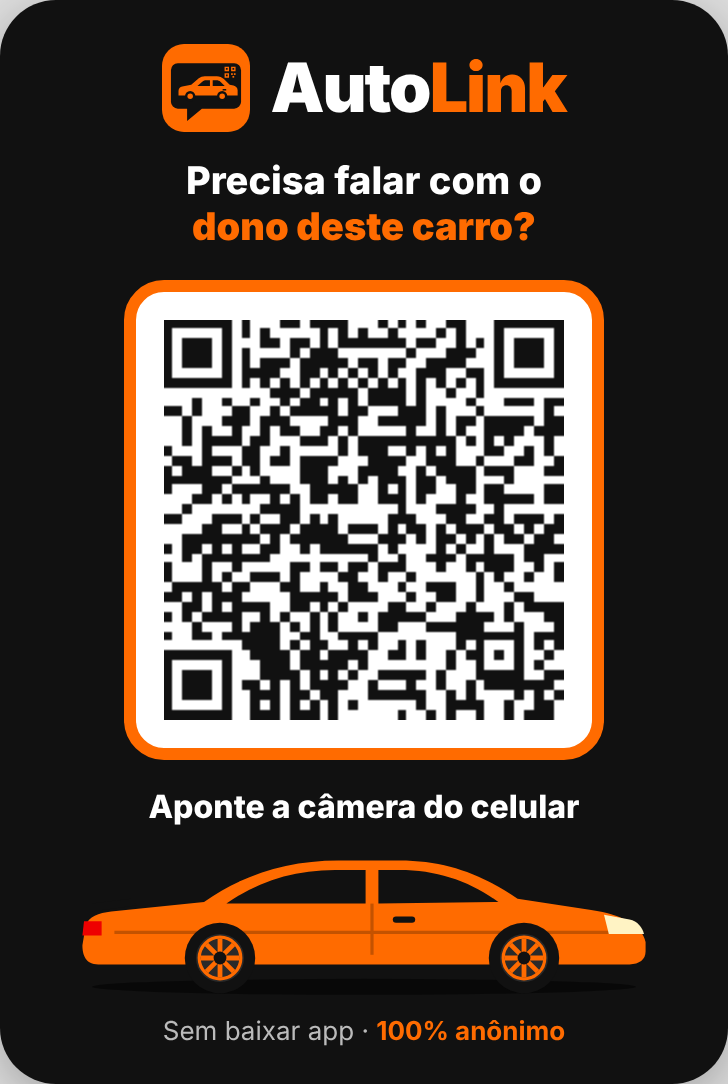
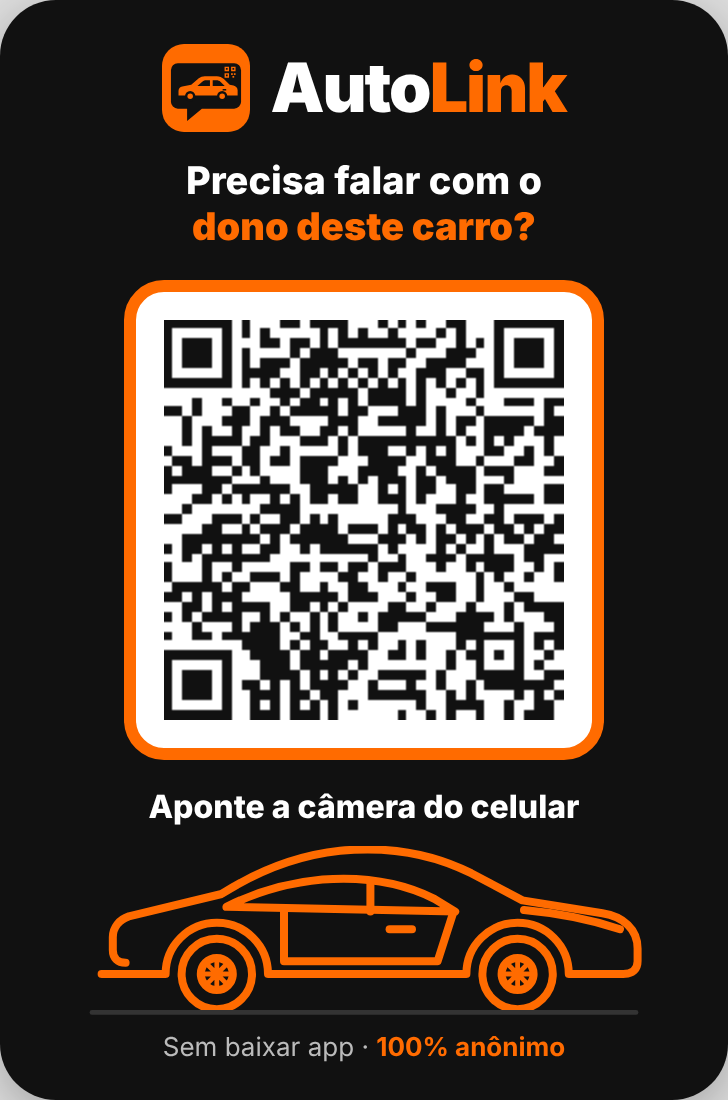
Adesivo: carro em traço, estilo esportivo
Claude-Session: https://claude.ai/code/session_01P8cAiARSsTQuh7bUQYAaCj

diff --git a/web/adesivo.html b/web/adesivo.html
@@ -18,17 +18,18 @@ body{margin:0;background:#ddd;font-family:system-ui,Arial,sans-serif;display:fle
   <div class="t">Precisa falar com o<br><b>dono deste carro?</b></div>
   <div class="qr"><div id="qr"></div></div>
   <div class="t" style="font-size:16px;margin-top:6px">Aponte a câmera do celular</div>
-  <svg class="car" viewBox="0 0 400 96">
-<ellipse cx="200" cy="88" rx="170" ry="5" fill="#000" opacity=".5"/>
-<path d="M34 74C26 74 24 68 24 62L26 50C28 44 34 42 42 41L100 35C124 18 152 9 184 9L222 9C252 9 274 18 296 33L342 40C362 43 374 50 376 60L376 66C376 71 372 74 366 74Z" fill="#FF6B00"/>
-<path d="M114 36C134 22 156 15 182 15L201 15L201 36Z M209 36L209 15L222 15C246 15 266 22 284 35Z" fill="#111"/><path d="M30 41L58 37L54 33L30 36Z" fill="#111"/>
-<path d="M44 54h330" stroke="#C45200" stroke-width="2" fill="none"/>
-<path d="M205 36v32" stroke="#C45200" stroke-width="2"/>
-<rect x="218" y="44" width="14" height="4" rx="2" fill="#111"/>
-<path d="M350 43l16 3c5 1 8 5 9 9h-22z" fill="#FFF3C4"/>
-<path d="M25 47h11v9H24z" fill="#E00"/>
-<g><circle cx="110" cy="70" r="22" fill="#111"/><circle cx="110" cy="70" r="15" fill="#2a2a2a"/><circle cx="110" cy="70" r="13" fill="none" stroke="#FF6B00" stroke-width="2"/><g stroke="#FF6B00" stroke-width="3"><path d="M110 58v24M98 70h24M101.5 61.5l17 17M118.5 61.5l-17 17"/></g><circle cx="110" cy="70" r="4" fill="#111"/></g>
-<g><circle cx="300" cy="70" r="22" fill="#111"/><circle cx="300" cy="70" r="15" fill="#2a2a2a"/><circle cx="300" cy="70" r="13" fill="none" stroke="#FF6B00" stroke-width="2"/><g stroke="#FF6B00" stroke-width="3"><path d="M300 58v24M288 70h24M291.5 61.5l17 17M308.5 61.5l-17 17"/></g><circle cx="300" cy="70" r="4" fill="#111"/></g>
+  <svg class="car" viewBox="0 0 400 106">
+<g fill="none" stroke="#FF6B00" stroke-width="5" stroke-linecap="round" stroke-linejoin="round">
+<path d="M36 80H76A32 32 0 0 1 140 80H264A32 32 0 0 1 328 80H362c6 0 9-3 9-8v-8c0-12-9-20-22-22l-50-8-32-17c-24-12-52-17-82-14-28 3-52 13-74 27l-58 14c-6 2-10 7-10 13v8c0 5 3 8 8 8"/>
+<path d="M114 38c18-9 38-15 60-17 26-2 50 2 70 12l13 8z"/>
+<path d="M204 22v19"/>
+<path d="M150 41v31h96l10-31"/>
+<path d="M216 52h14"/>
+<path d="M300 40c22 2 42 6 60 12"/>
+</g>
+<g fill="none" stroke="#FF6B00" stroke-width="5"><circle cx="108" cy="80" r="22"/><circle cx="108" cy="80" r="10"/><circle cx="296" cy="80" r="22"/><circle cx="296" cy="80" r="10"/></g>
+<g stroke="#FF6B00" stroke-width="3"><path d="M108 70v20M98 80h20M101 73l14 14M115 73l-14 14"/><path d="M296 70v20M286 80h20M289 73l14 14M303 73l-14 14"/></g>
+<path d="M30 104h340" stroke="#333" stroke-width="3" stroke-linecap="round"/>
 </svg>
   <div class="f">Sem baixar app · <b>100% anônimo</b></div>
 </div>
